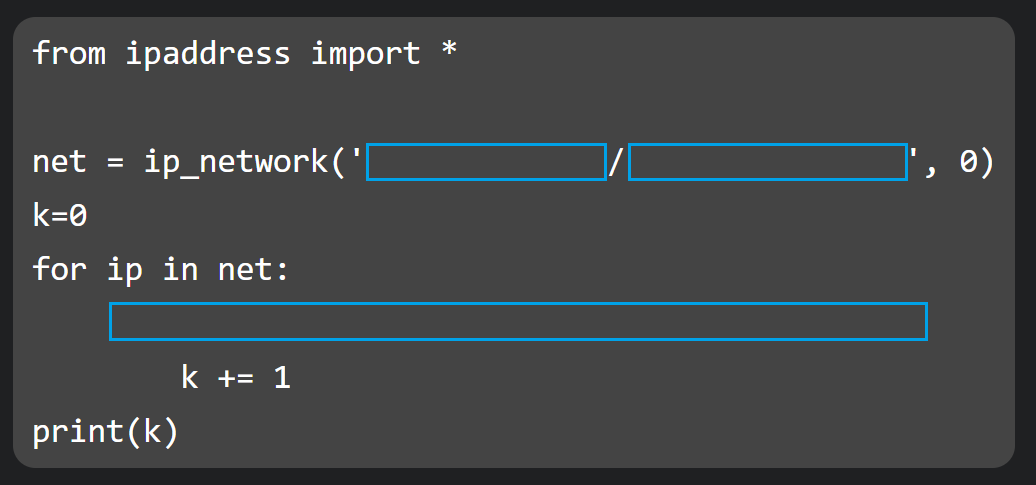
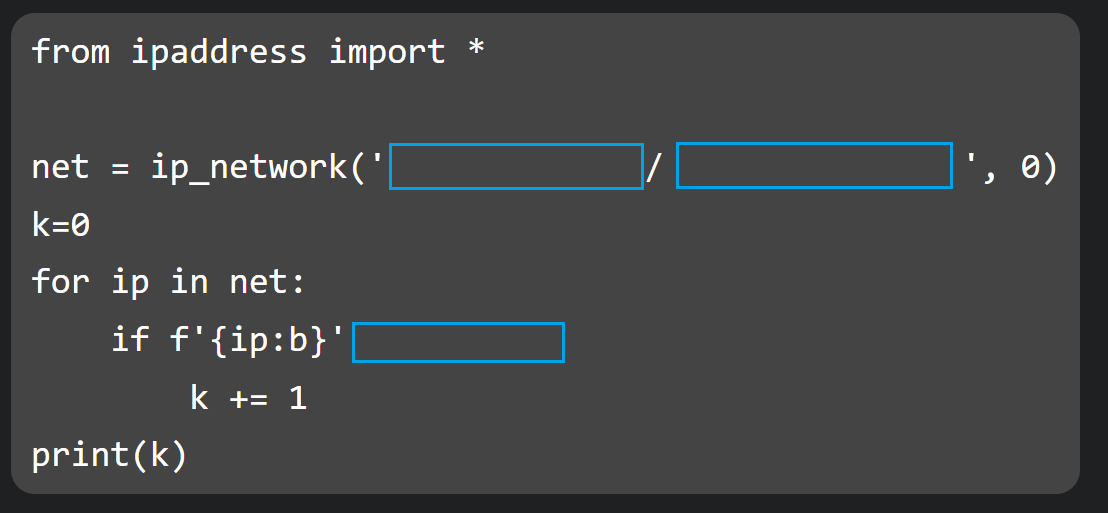
drag and drop

diff --git a/13.html b/13.html
@@ -43,7 +43,7 @@
 					k = 0
 				</div>
 				<div id="draggable-7" class="example-draggable" draggable="true" ondragstart="onDragStart(event);">
-					if ...
+					if f'{ip:b}'
 				</div>
 			</div>
 			<div class="example-dropzone" ondragover="onDragOver(event);" ondrop="onDrop(event);">
